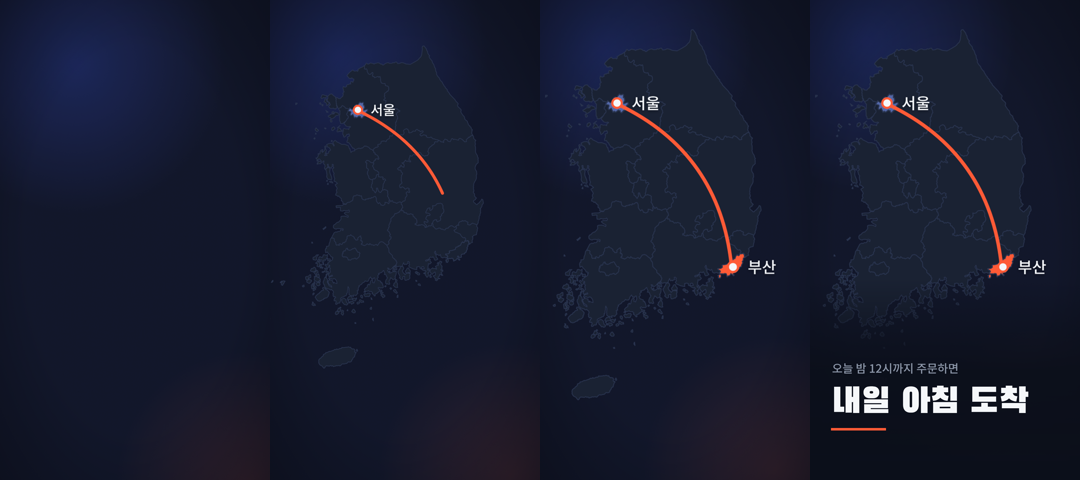
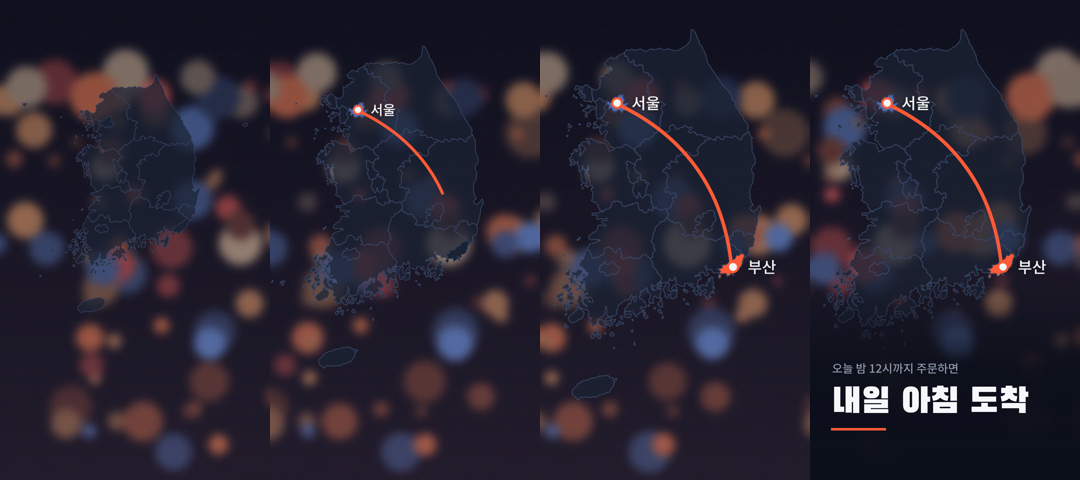
Put the user's footage at the bottom and overlay graphics on it
Ads from this skill always lay the user's video or image full-frame at
the bottom and put the motion graphics on top.

- timeline.mjs FOOTAGE; build-project lays it at z 2-9 (cover or
  contain, Ken Burns for stills) and only adds the generated background
  when the footage does not fill the frame
- lookStack() background is opt-in; Q11 and engine-recipes 5.1 describe
  footage -> scrim -> graphics -> tint -> grain/vignette
- validate.mjs warns when no footage fills the frame or when an opaque
  graphic covers 60%+ of it for over a second
- Map base is semi-transparent (fillOpacity 0.7); the map sample is
  re-rendered over placeholder footage

Claude-Session: https://claude.ai/code/session_01YK5oS6T6SyHVXxtRLYD3Ps

diff --git a/plugin/skills/admaker/SKILL.md b/plugin/skills/admaker/SKILL.md
@@ -7,7 +7,8 @@ description: Make short ad and promo videos (6/15/30/60 s, 16:9, 9:16, 1:1, 4:5)
 
 광고 한 편을 **기획 → 연출 → 샷 조립 → 사운드 → 렌더 → 검수**까지 끌고 가는 스킬입니다.
 결과물은 `@admaker/engine`의 **ProjectJSON**이고, 브라우저 `Exporter`로 mp4를 만듭니다. 같은 JSON은 admaker Studio에서 열어 고칠 수 있습니다.
-영상 생성 AI나 스톡 푸티지는 쓰지 않습니다(사용자가 준 소재는 씁니다).
+**바닥은 사용자가 준 영상·이미지입니다.** 광고는 항상 입력 소재(영상 또는 이미지)를 맨 아래(z 0–9)에 프레임 가득 깔고, 모션 그래픽(글자·도형·지도·자막·룩 레이어)을 그 위에 얹는 구조입니다. 그래픽이 소재를 통째로 가리지 않게 하고, 글자는 스크림·틴트로 소재 위에서 읽히게 합니다. 소재는 `timeline.mjs`의 `FOOTAGE`에 적습니다.
+영상 생성 AI나 스톡 푸티지는 쓰지 않습니다(소재는 사용자가 줍니다).
 
 광고의 판단 순서는 **메시지 전달 → 브랜드 기억 → 리듬·사운드 → 카메라 → 장식**입니다.
 
@@ -21,7 +22,7 @@ description: Make short ad and promo videos (6/15/30/60 s, 16:9, 9:16, 1:1, 4:5)
 3. **질문은 한 번, 한 메시지로** 합니다. 요청에 답이 있는 항목은 건너뜁니다.
    - 제품/서비스, 이 광고의 **단 하나의 메시지**, CTA 문구와 URL
    - 매체와 규격 → `references/ad-formats.md`
-   - 브랜드 자산: 로고(SVG 권장), 컬러, 폰트, 제품 이미지·스크린샷, 금지 표현
+   - **바닥에 깔 영상·이미지**(필수, 여러 개면 순서와 길이), 브랜드 자산: 로고(SVG 권장), 컬러, 폰트, 금지 표현
    - 내레이션(TTS/본인 녹음/없음), 음악 보유 여부
    - 스토리보드를 먼저 볼지(기본: 아니요)
    답을 받으면 나머지는 기본값으로 채우고 브리프를 몇 줄로 요약해 시작합니다. 다시 묻지 않습니다.
@@ -49,7 +50,7 @@ description: Make short ad and promo videos (6/15/30/60 s, 16:9, 9:16, 1:1, 4:5)
 3. **결정적 렌더링.** script 어댑터와 생성 코드에 `Date.now()`, 시드 없는 `Math.random()`, 이전 프레임 상태 의존을 쓰지 않습니다.
 4. **첫 1초 안에 훅, 마지막에 브랜드 + CTA 홀드.** 워드마크와 CTA는 자리잡은 뒤 최소 1초(6초 범퍼는 0.7초) 정지합니다.
 5. **샷 카드를 쓸 때는 카드 전문을 읽고**, 카드의 "알려진 함정" 값은 낮추지 않습니다.
-6. **모션 기본기는 `templates/motion.mjs`로.** 화면은 5층(배경 → 소재 → 그래픽 → 그레이드 → 그레인·비네트), 입장은 2–3속성 + 3–6프레임 시차, 퇴장은 입장의 절반, 스틸은 Ken Burns, 오래 머무는 조연은 숨쉬기, 빠른 이동은 모션 블러(aesthetic-rules R6–R9, Q11–Q15). 브랜드 요소의 정지(R1)는 이 모든 것보다 우선합니다. 늦게 등장하는 요소는 `options.delay` 대신 `entrance()`/`holdFrom()`을 씁니다(엔진은 delay 전에 0% 값을 걸지 않음). 지도는 `templates/map.mjs`(engine-recipes §4.1, 샷 카드 `map-*`).
+6. **모션 기본기는 `templates/motion.mjs`로.** 화면은 아래부터 소재(사용자 영상·이미지) → 스크림 → 그래픽 → 틴트 → 그레인·비네트, 입장은 2–3속성 + 3–6프레임 시차, 퇴장은 입장의 절반, 스틸은 Ken Burns, 오래 머무는 조연은 숨쉬기, 빠른 이동은 모션 블러(aesthetic-rules R6–R9, Q11–Q15). 브랜드 요소의 정지(R1)는 이 모든 것보다 우선합니다. 늦게 등장하는 요소는 `options.delay` 대신 `entrance()`/`holdFrom()`을 씁니다(엔진은 delay 전에 0% 값을 걸지 않음). 지도는 `templates/map.mjs`(engine-recipes §4.1, 샷 카드 `map-*`).
 7. **검수는 숫자로.** 자막 실효 글자 높이 ≥ 프레임 높이의 5%, 보조 ≥ 3%, 정보 자막 ≥ max(1.8초, 발화 + 0.6초)(단어 동기 자막은 Q15), −14 LUFS(매체 규격 우선), 블랙/빈 프레임 0, 컷–비트 오차 ≤ 2프레임, 미등록 어댑터 0.
 8. **권리.** 사용자 자산과 CC0/CC BY/OFL 소재만. 서드파티 자산은 `CREDITS`에 출처·라이선스와 함께 적습니다(지도 경계 데이터 포함: 데이터셋 이름, 기준 연도, 원 출처). 타사 브랜드·캐릭터는 사용자가 권리를 확인하지 않으면 쓰지 않습니다. 엔진 소스는 프로젝트 폴더로 복사하지 않습니다.
 

diff --git a/plugin/skills/admaker/references/engine-recipes.md b/plugin/skills/admaker/references/engine-recipes.md
@@ -215,6 +215,7 @@
 2. `makeProjection(features, [x, y, w, h])`로 지도가 들어갈 상자를 정합니다. 카피 자리는 상자 밖에 남깁니다.
 3. 지도 클립은 **모두 첫 카메라 키 이전(보통 0초)에 시작**시키고, 늦게 나타날 요소는 입장 모션으로 숨깁니다. `mapCamera`는 클립이 첫 키보다 늦게 시작하면 오류를 냅니다.
 4. 카피 아래로 지도가 지나가면 아래쪽 그라데이션 가림막(Image)을 카피 바로 아래 z에 둡니다.
+5. **지도는 소재 위에 얹습니다.** 바탕 지도는 `baseMapSrc(…, { fillOpacity: 0.6–0.75 })`로 반투명하게 두어 아래 영상이 비치게 하고, 지도 뒤 소재가 밝으면 지도 상자보다 조금 큰 어두운 스크림을 한 장 깝니다. 지도가 화면 전체를 불투명하게 덮는 구간은 1초 이내(Q11).
 
 함정:
 - 엔진 scale은 클립 중심 기준이라 `mapCamera`가 위치를 보정합니다. 지도 클립에 다른 scale 모션(핀 팝)을 같이 넣어도 곱해져서 문제없습니다.
@@ -229,15 +230,16 @@
 - 필터(Effect 클립의 `effectKey`, 클립 효과의 `key`는 이름 뒤에 `Filter`를 붙임. 예: `oldFilmFilter`): adjustment, advancedBloom, backdropBlur, bloom, colorMap, colorOverlay, convolution, dot, dropShadow, glitch, glow, godray, grayscale, hslAdjustment, kawaseBlur, motionBlur, oldFilm, pixelate, radialBlur, reflection, rgbSplit, tiltShift. 광효과(glow, bloom, godray)는 **주인공 하나에 한 번**(aesthetic-rules Q4).
 - 전환: `fade`, `radialSwipe`, gl-transitions 팩(`getAllTransitions()`로 목록 확인). 기본은 매체 안의 전환(마스크·키프레임 조합)이고, 셰이더 전환은 장면 성격이 바뀌는 곳에서만.
 
-### 5.1 룩 스택: 배경 → 틴트 → 그레인 → 비네트 (aesthetic-rules Q11)
+### 5.1 소재 + 룩 스택: 소재 → 스크림 → 그래픽 → 틴트 → 그레인 → 비네트 (aesthetic-rules Q11)
 
-`build-project.mjs`가 `motion.mjs`의 `lookStack()`으로 광고 전체 길이의 **SVG Image 클립 4개**를 깝니다. 각 층은 별도 트랙이고, 겹침은 zIndex로 정합니다.
+광고의 바닥은 항상 사용자가 준 영상·이미지입니다. `build-project.mjs`가 `timeline.mjs`의 `FOOTAGE`를 z 2–9에 프레임 가득(cover) 깔고, 그 위에 `motion.mjs`의 `lookStack()`으로 **SVG Image 클립**(틴트·그레인·비네트, 소재가 프레임을 다 못 채우면 생성 배경도)을 얹습니다. 각 층은 별도 트랙이고, 겹침은 zIndex로 정합니다.
 
 | 층 | 만드는 법 | zIndex |
 |---|---|---|
-| ① 배경 | 브랜드 배경색 + 강조색·보조색 방사형 빛 2개. 프레임보다 12% 크게 두고 광고 전체에 걸쳐 천천히 흐름 | 1 |
-| ② 소재 | Image / Video / Adapter(three) | 10–19 |
-| ③ 그래픽·글자 | Shape / Text / Caption | 20–49 |
+| (생성 배경) | 소재가 프레임을 다 채우지 못할 때만(`lookStack({ background: true })`). 브랜드 배경색 + 방사형 빛 2개, 프레임보다 12% 크게 두고 천천히 흐름 | 1 |
+| ① 소재 | `FOOTAGE`의 Video / Image, cover 맞춤, 스틸은 Ken Burns | 2–9 |
+| ② 스크림 | 글자 자리만 배경색 그라데이션(부분, Image SVG) | 10–19 |
+| ③ 그래픽·글자 | Shape / Text / Caption / 반투명 지도·패널 / Adapter(three) | 20–49 |
 | ④ 틴트 | 강조색 단색 면, 불투명도 0.06(어두운 테마) / 0.03(밝은 테마) | 90 |
 | ⑤ 그레인 | `feTurbulence` 노이즈, 프레임보다 128px 크게 두고 2프레임마다 다른 자리로 점프(1초 루프), 불투명도 0.05 | 95 |
 | ⑥ 비네트 | 가운데 투명 → 가장자리 검정 0.3 방사형 | 99 |

diff --git a/plugin/skills/admaker/references/aesthetic-rules.md b/plugin/skills/admaker/references/aesthetic-rules.md
@@ -82,8 +82,9 @@
 **Q10. 세이프존.** 플랫폼 UI(좋아요 버튼, 캡션 영역)가 덮는 곳에 글자·로고·CTA를 두지 않습니다(`ad-formats.md`).
 자가검사: 9:16 버전에서 하단 20% 안에 CTA가 있나요?
 
-**Q11. 화면은 5층으로 쌓는다.** 아래부터 ① 배경(움직이는 빛이 있는 그라디언트, 단색 평면 금지) → ② 소재(이미지·영상·3D) → ③ 그래픽·글자 → ④ 틴트(강조색 반투명 면) → ⑤ 그레인 + 비네트(맨 위). 틴트가 서로 다른 출처의 소재를 한 룩으로 묶습니다. 브랜드 가이드가 순수 단색 배경을 요구하면 ①만 단색으로 두고 그 이유를 `TREATMENT.md`에 적습니다. 레시피는 `engine-recipes.md` §5.1.
-자가검사: 그레이드·그레인이 글자 아래에 깔려 있나요? 배경이 평면 단색인가요?
+**Q11. 화면은 소재 위에 층으로 쌓는다.** 아래부터 ① 소재(사용자가 준 영상·이미지, 프레임 가득, 항상 맨 아래) → ② 스크림(글자 자리만 어둡게 하는 그라데이션, 부분) → ③ 그래픽·글자 → ④ 틴트(강조색 반투명 면) → ⑤ 그레인 + 비네트(맨 위). 틴트가 소재와 그래픽을 한 룩으로 묶습니다. 생성 배경(움직이는 빛 그라디언트)은 소재가 프레임을 다 채우지 못할 때(예: 9:16에 가로 영상을 레터박스로 넣을 때)만 소재 **아래**에 깝니다. 레시피는 `engine-recipes.md` §5.1.
+**그래픽은 소재를 가리지 않는다.** 불투명한 면이 프레임의 60% 이상을 1초 넘게 덮으면 안 됩니다(지도 바탕, 패널, 단색 카드 포함). 넓은 그래픽은 반투명(불투명도 0.55–0.75)이나 부분 패널로 쓰고, 소재를 완전히 덮는 전환 카드는 1초 이내로 씁니다. `validate.mjs`가 경고합니다.
+자가검사: 그레이드·그레인이 글자 아래에 깔려 있나요? 소재가 1초 넘게 안 보이는 구간이 있나요? 소재 위 글자가 스크림 없이 밝은 부분에 놓였나요?
 
 **Q12. 스틸은 멈춰 있지 않는다.** 화면에 놓인 사진·제품컷에는 Ken Burns(scale 1→1.06–1.1 + 20–40px 팬, `easeInOutSine`)를 겁니다. 이어지는 샷은 줌인과 줌아웃을 번갈아 씁니다. 읽어야 하는 UI 캡처는 scale 1.03 이하로 느리게 합니다(Q1, Q9). 레시피는 §2.7.
 자가검사: 1초 넘게 완전히 정지한 사진이 있나요(R1의 의도된 정지 제외)?

diff --git a/samples/map/README.md b/samples/map/README.md
@@ -6,7 +6,8 @@
 
 | 시간 | 일어나는 일 | 쓰는 것 |
 |---|---|---|
-| 0–0.7초 | 바탕 지도와 강조 지역이 들어옴 | Image(SVG) + Shape path, `entrance` |
+| 전체 | 바닥 소재(사용자 영상) + 배경색 0.4로 살짝 어둡게 | Video z 2, Image z 9 |
+| 0–0.7초 | 반투명 바탕 지도(면 0.72)와 강조 지역이 들어옴 | Image(SVG) + Shape path, `entrance` |
 | 0.8–1.2초 | 서울이 칠해지고 핀·지명 | `paint`, 핀 팝(`holdFrom`), Text |
 | 1.4–3.4초 | 경로가 그려지며 경로 쪽으로 1.55배 줌 | `strokeDraw`, `mapCamera` |
 | 3.2–3.6초 | 부산이 강조색으로, 핀·지명 | `paint`, 핀 팝 |
@@ -25,4 +26,5 @@ node to-admaker-import.mjs project.json admaker-import.json
 
 - 지도 데이터: southkorea/southkorea-maps의 시도 경계(통계청 KOSTAT 2013 기반). 광고에 쓸 때는 `CREDITS`에 적습니다. 데이터 파일은 이 저장소에 넣지 않았습니다.
 - 폰트: Black Han Sans(제목), Noto Sans KR 500(본문). 렌더 하니스에서는 `--local-fonts`로 로컬 파일을 씁니다.
-- 색·타이밍은 첫 렌더 뒤 한 번 고친 값입니다(줌 1.35 → 1.55, 가림막 50% → 42%).
+- 바닥 소재는 실제 사용자 영상 자리입니다. 샘플은 직접 만든 자리표시 영상(밤거리 보케)으로 렌더했고, `project.json`에서는 `assets/input.mp4`를 가리킵니다.
+- 색·타이밍은 첫 렌더 뒤 고친 값입니다(줌 1.35 → 1.55, 가림막 50% → 42%, 지도 면 불투명 → 0.72).

diff --git a/plugin/skills/admaker/references/shots/map-region-pin.md b/plugin/skills/admaker/references/shots/map-region-pin.md
@@ -21,7 +21,7 @@ name: map-region-pin
 | 항목 | 값 | 조절 감각 |
 |---|---|---|
 | 지도 상자 | 1080×1920 기준 `[90, 200, 900, 1150]` | 카피 자리를 아래 35%에 남김 |
-| 바탕 지도 색 | 배경보다 한 단계 밝은 면 + 더 밝은 1.5–2px 경계선 | 경계선이 진하면 지도가 시끄러워짐 |
+| 바탕 지도 색 | 어두운 면 `fillOpacity` 0.6–0.75 + 밝은 1.5–2px 경계선 | 소재(영상) 위에 얹으므로 불투명하게 덮지 않음(Q11). 샘플: 영상 위 배경색 0.4 + 지도 면 0.72 |
 | 지역 paint | 0.35–0.4초 `easeOutCubic` | 강조색은 화면에 하나만(경로·핀과 같은 색) |
 | 핀 | 지름 28–32px, 흰 면 + 강조색 테 | zoom 후 지름 기준 |
 | 지명 | body 폰트 40px, 그림자 alpha 0.5 | 핀 오른쪽 30px |
